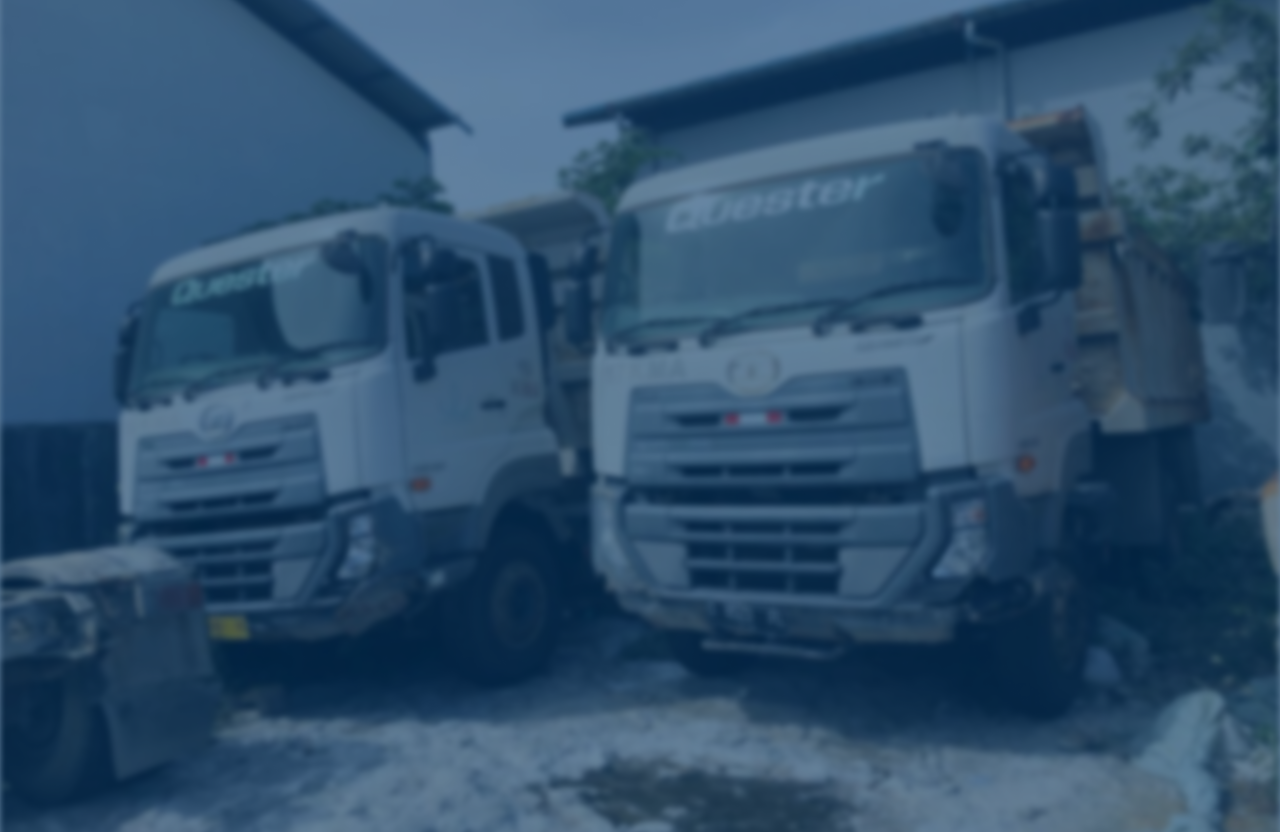
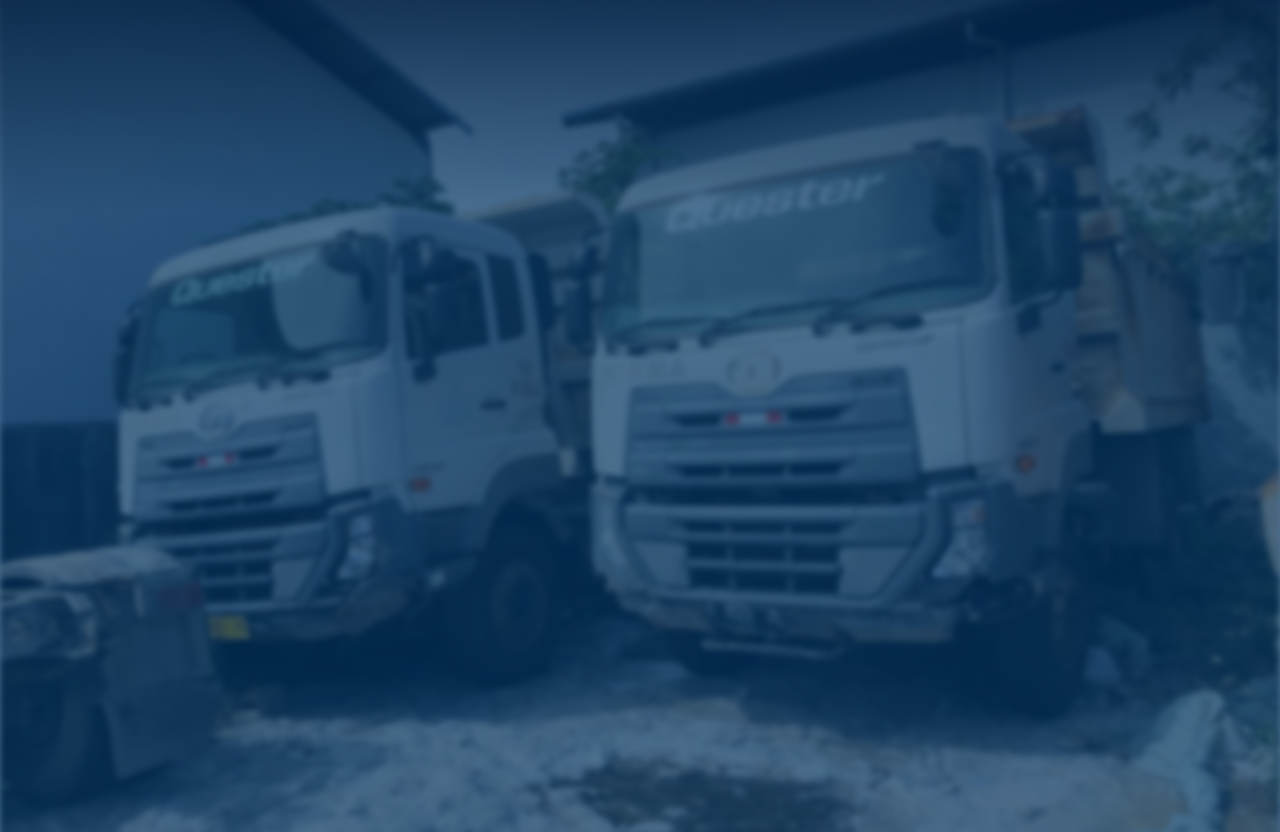
test gambar hilang

diff --git a/index.html b/index.html
@@ -4,8 +4,7 @@
     <meta charset="UTF-8" />
     <meta http-equiv="X-UA-Compatible" content="IE=edge" />
     <meta name="viewport" content="width=device-width, initial-scale=1.0, maximum scale-1.0, user-scalable=0" />
-    <link rel="stylesheet" href="assets/style.css" />
-    <link rel="stylesheet" href="https://cdnjs.cloudflare.com/ajax/libs/font-awesome/4.7.0/css/font-awesome.min.css" />
+    <link rel="stylesheet" href="assets/style.css" type="text/css" />
     <title>Jalur Berlian</title>
   </head>
 </html>

diff --git a/assets/style.css b/assets/style.css
@@ -32,7 +32,7 @@ header {
 }
 
 .hero {
-  background-image: url(/FrontEnd/jalurberlian/assets/img/hero1.png);
+  background-image: url(/FrontEnd/jalurberlian/assets/img/hero.png);
   background-size: cover;
   background-position: right;
   width: auto;
